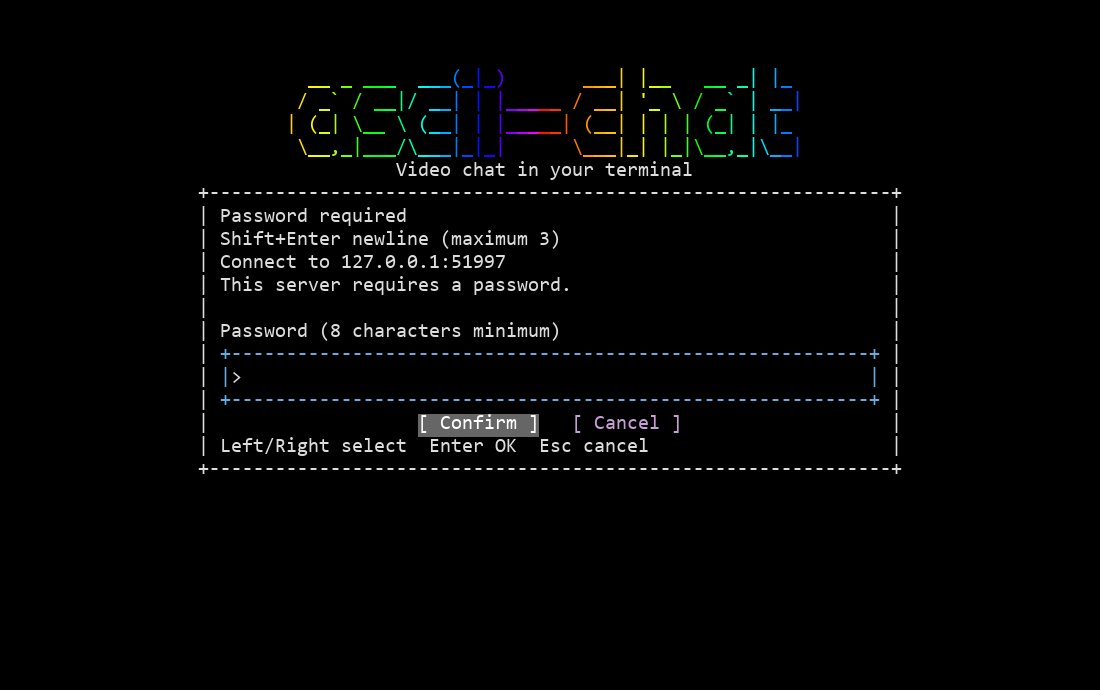
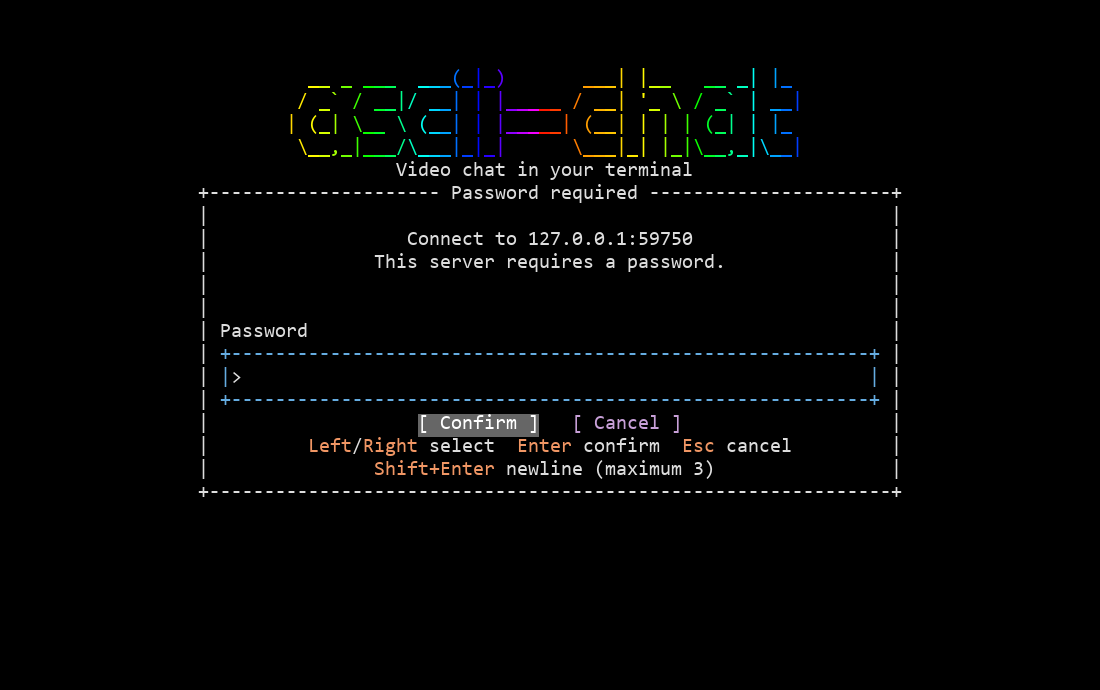
fix: match password dialog title alignment and shortcut styling

diff --git a/lib/tui/prompt.c b/lib/tui/prompt.c
@@ -2,6 +2,7 @@
 #include <ascii-chat/crypto/crypto.h>
 #include <ascii-chat/ui/popup.h>
 #include <ascii-chat/ui/buttons.h>
+#include <ascii-chat/ui/text.h>
 #include <ascii-chat/tui/notice.h>
 #include <ascii-chat/options/options.h>
 #include <ascii-chat/tui/prompt.h>
@@ -119,12 +120,18 @@ static int password_lines(const prompt_snapshot_t *s) {
   return lines;
 }
 
+static void password_center_line(frame_buffer_t *buffer, const char *text, int row, int left, int width) {
+  char centered[2048];
+  ui_text_cell(centered, sizeof(centered), text, width - 4, UI_ALIGN_CENTER);
+  frame_buffer_printf(buffer, "\033[%d;%dH%s", row, left + 2, centered);
+}
+
 static void password_panel(frame_buffer_t *buffer, terminal_size_t size, const prompt_snapshot_t *s) {
   int width = size.cols - 4;
   if (width > 64)
     width = 64;
   int lines = password_lines(s);
-  int height = 12 + lines;
+  int height = 13 + lines;
   int top = (size.rows - height) / 2 + 1;
   int logo_rows = size.cols >= 52 && top >= 6 ? 4 : 1;
   int logo_top = top - logo_rows - (top >= 3 ? 1 : 0);
@@ -134,24 +141,31 @@ static void password_panel(frame_buffer_t *buffer, terminal_size_t size, const p
   if (top >= 3)
     media_center_line(buffer, "Video chat in your terminal", top - 1, size.cols);
   int left = (size.cols - width) / 2 + 1;
-  ui_popup_frame(buffer, top, left, width, height, LOG_COLOR_RESET);
-  frame_buffer_printf(buffer, "\033[%d;%dH\033[1mPassword required\033[0m", top + 1, left + 2);
+  ui_popup_frame_titled(buffer, top, left, width, height, LOG_COLOR_RESET, "Password required");
   char target[256];
   snprintf(target, sizeof(target), "Connect to %.*s", width - 15, s->text);
-  frame_buffer_printf(buffer, "\033[%d;%dH%s", top + 3, left + 2, target);
-  frame_buffer_printf(buffer, "\033[%d;%dHThis server requires a password.", top + 4, left + 2);
+  password_center_line(buffer, target, top + 2, left, width);
+  password_center_line(buffer, "This server requires a password.", top + 3, left, width);
   if (s->incorrect || s->newline_limit)
-    frame_buffer_printf(
-        buffer, "\033[%d;%dH%s", top + 5, left + 2,
-        colored_string(LOG_COLOR_WARN, s->newline_limit ? "Maximum 3 newlines." : "Incorrect password. Try again."));
-  frame_buffer_printf(buffer, "\033[%d;%dHPassword (%d characters minimum)", top + 6, left + 2, MIN_PASSWORD_LENGTH);
+    password_center_line(
+        buffer,
+        colored_string(LOG_COLOR_WARN, s->newline_limit ? "Maximum 3 newlines." : "Incorrect password. Try again."),
+        top + 4, left, width);
+  frame_buffer_printf(buffer, "\033[%d;%dHPassword", top + 6, left + 2);
   ui_popup_frame(buffer, top + 7, left + 2, width - 4, lines + 2, LOG_COLOR_DEBUG);
   const ui_button_t buttons[] = {{"[ Confirm ]", 0, !s->can_confirm}, {"[ Cancel ]", 0, false}};
   ui_buttons_render(buffer, top + 9 + lines, left + 2, width - 4, buttons, 2, s->selected_button);
-  frame_buffer_printf(buffer, "\033[%d;%dH%s", top + 10 + lines, left + 2,
-                      width >= 42 ? "Left/Right select  Enter OK  Esc cancel" : "L/R select  Enter OK  Esc cancel");
-  frame_buffer_printf(buffer, "\033[%d;%dH%s", top + 2, left + 2,
-                      width >= 42 ? "Shift+Enter newline (maximum 3)" : "Shift+Enter newline (max 3)");
+  const char *orange = s->color ? ui_text_color_prefix(LOG_COLOR_DEV) : "";
+  const char *foreground = s->color ? ui_text_color_prefix(LOG_COLOR_RESET) : "";
+  char shortcuts[1024];
+  snprintf(shortcuts, sizeof(shortcuts),
+           width >= 46 ? "%s%s%s/%s%s%s select  %sEnter%s confirm  %sEsc%s cancel"
+                       : "%s%s%s/%s%s%s  %sEnter%s confirm  %sEsc%s cancel",
+           orange, width >= 46 ? "Left" : "L", foreground, orange, width >= 46 ? "Right" : "R", foreground, orange,
+           foreground, orange, foreground);
+  password_center_line(buffer, shortcuts, top + 10 + lines, left, width);
+  snprintf(shortcuts, sizeof(shortcuts), "%sShift+Enter%s newline (maximum 3)", orange, foreground);
+  password_center_line(buffer, shortcuts, top + 11 + lines, left, width);
   ui_input_render(buffer, top + 8, left + 3, width - 8, lines, s->text + s->prompt_bytes, s->cursor, false);
 }
 

diff --git a/tests/integration/password_prompt.py b/tests/integration/password_prompt.py
@@ -125,7 +125,18 @@ def main():
             peer.expect(lambda _: bool(re.search(r'\x1b\][02];[^\x07\x1b]*password required', ''.join(peer.raw))),
                         'Password dialog terminal title missing')
             border = next(i for i, line in enumerate(peer.screen.display) if '\u250c' in line)
-            assert abs(border - (peer.screen.lines - border - 13)) <= 1, 'Popup is not vertically centered'
+            assert abs(border - (peer.screen.lines - border - 14)) <= 1, 'Popup is not vertically centered'
+            title_line = peer.screen.display[border]
+            assert 'Password required' in title_line, 'Title is not embedded in the top border'
+            for text in ('Password required', 'This server requires a password.'):
+                row, line = next((r, line) for r, line in enumerate(peer.screen.display) if text in line)
+                column = line.index(text)
+                assert abs(2 * column + len(text) - peer.screen.columns) <= 1, f'{text} is not centered'
+            row, line = next((r, line) for r, line in enumerate(peer.screen.display) if 'Left/Right' in line)
+            column = line.index('Left/Right')
+            cells = peer.screen.buffer[row]
+            assert cells[column].fg == cells[column + 5].fg != cells[column + 4].fg, 'Shortcut slash inherited orange'
+            assert cells[column + 4].fg == cells[line.index('select')].fg, 'Shortcut slash lost normal foreground'
             selected(peer, '[ Confirm ]')
             peer.write('\x1b[C')
             selected(peer, '[ Cancel ]')
@@ -144,7 +155,7 @@ def main():
             peer.expect(lambda s: 'Maximum 3 newlines.' in s, 'Fourth newline was not rejected')
             borders = [(row, line) for row, line in enumerate(peer.screen.display) if '\u250c' in line or '\u2514' in line]
             assert borders[2][0] - borders[1][0] == 5, 'Input did not expand to four lines'
-            assert borders[3][0] - borders[0][0] == 15, 'Popup did not grow with the input'
+            assert borders[3][0] - borders[0][0] == 16, 'Popup did not grow with the input'
             save(peer, 'client-newline-limit')
             peer.resize(19, 40)
             peer.expect(lambda s: 'Maximum 3 newlines.' in s and sum('*' in line for line in s.splitlines()) == 4,

diff --git a/lib/ui/popup.c b/lib/ui/popup.c
@@ -34,6 +34,21 @@ asciichat_error_t ui_popup_frame(frame_buffer_t *out, int row, int col, int widt
   return ui_popup_rule(out, width, UI_POPUP_BOTTOM, false, terminal_should_use_utf8(), color);
 }
 
+asciichat_error_t ui_popup_frame_titled(frame_buffer_t *out, int row, int col, int width, int height, log_color_t color,
+                                        const char *title) {
+  if (!title || width < 5)
+    return SET_ERRNO(ERROR_INVALID_PARAM, "Invalid popup title or width");
+  asciichat_error_t result = ui_popup_frame(out, row, col, width, height, color);
+  if (result != ASCIICHAT_OK)
+    return result;
+  char rendered[1024];
+  truncate_with_ellipsis(title, rendered, sizeof(rendered), width - 4);
+  int title_width = display_width(rendered);
+  frame_buffer_printf(out, "\033[%d;%dH %s ", row, col + (width - title_width - 2) / 2,
+                      colored_string(LOG_COLOR_RESET, rendered));
+  return ASCIICHAT_OK;
+}
+
 bool ui_popup_render(frame_buffer_t *output, terminal_size_t size, const ui_popup_t *box) {
   if (!output || !box || !box->title || (box->line_count && !box->lines) || box->top_margin < 0) {
     SET_ERRNO(ERROR_INVALID_PARAM, "Invalid popup output, content or margins");

diff --git a/include/ascii-chat/ui/popup.h b/include/ascii-chat/ui/popup.h
@@ -12,6 +12,10 @@ asciichat_error_t ui_popup_rule(frame_buffer_t *output, int width, ui_popup_edge
                                 bool unicode, log_color_t color);
 asciichat_error_t ui_popup_frame(frame_buffer_t *output, int row, int column, int width, int height, log_color_t color);
 
+/** Draw a frame with a centered, clipped title embedded in its top border. */
+asciichat_error_t ui_popup_frame_titled(frame_buffer_t *output, int row, int column, int width, int height,
+                                        log_color_t color, const char *title);
+
 /** A compact modal drawn over an already-rendered terminal frame. */
 typedef struct {
   const char *title;

diff --git a/images/password-prompt/README.md b/images/password-prompt/README.md
@@ -30,8 +30,11 @@ session join reaches `CONNECTING_HOST`; this is not a WebRTC media delivery test
 - `client-narrow.png`: compact logo and popup at 40 columns by 19 rows.
 
 The implementation uses the existing rainbow animation, popup frame, line editor,
-and buttons. Native terminal colors, font metrics, the input marker, and the
-minimum-length label differ from the illustrative concept.
+and buttons. The title is centered in the top border; the connection text and
+controls are centered within the frame. The label and confirmation wording match
+the concept. Shortcut names are orange, with the Left/Right slash in the regular
+foreground. Native terminal colors, font metrics, and the input marker differ
+from the illustrative concept.
 
 Left/Right select a button, Enter activates it, and Esc cancels. Typing always edits
 the password. Shift+Enter inserts a newline and grows the input; up to three
